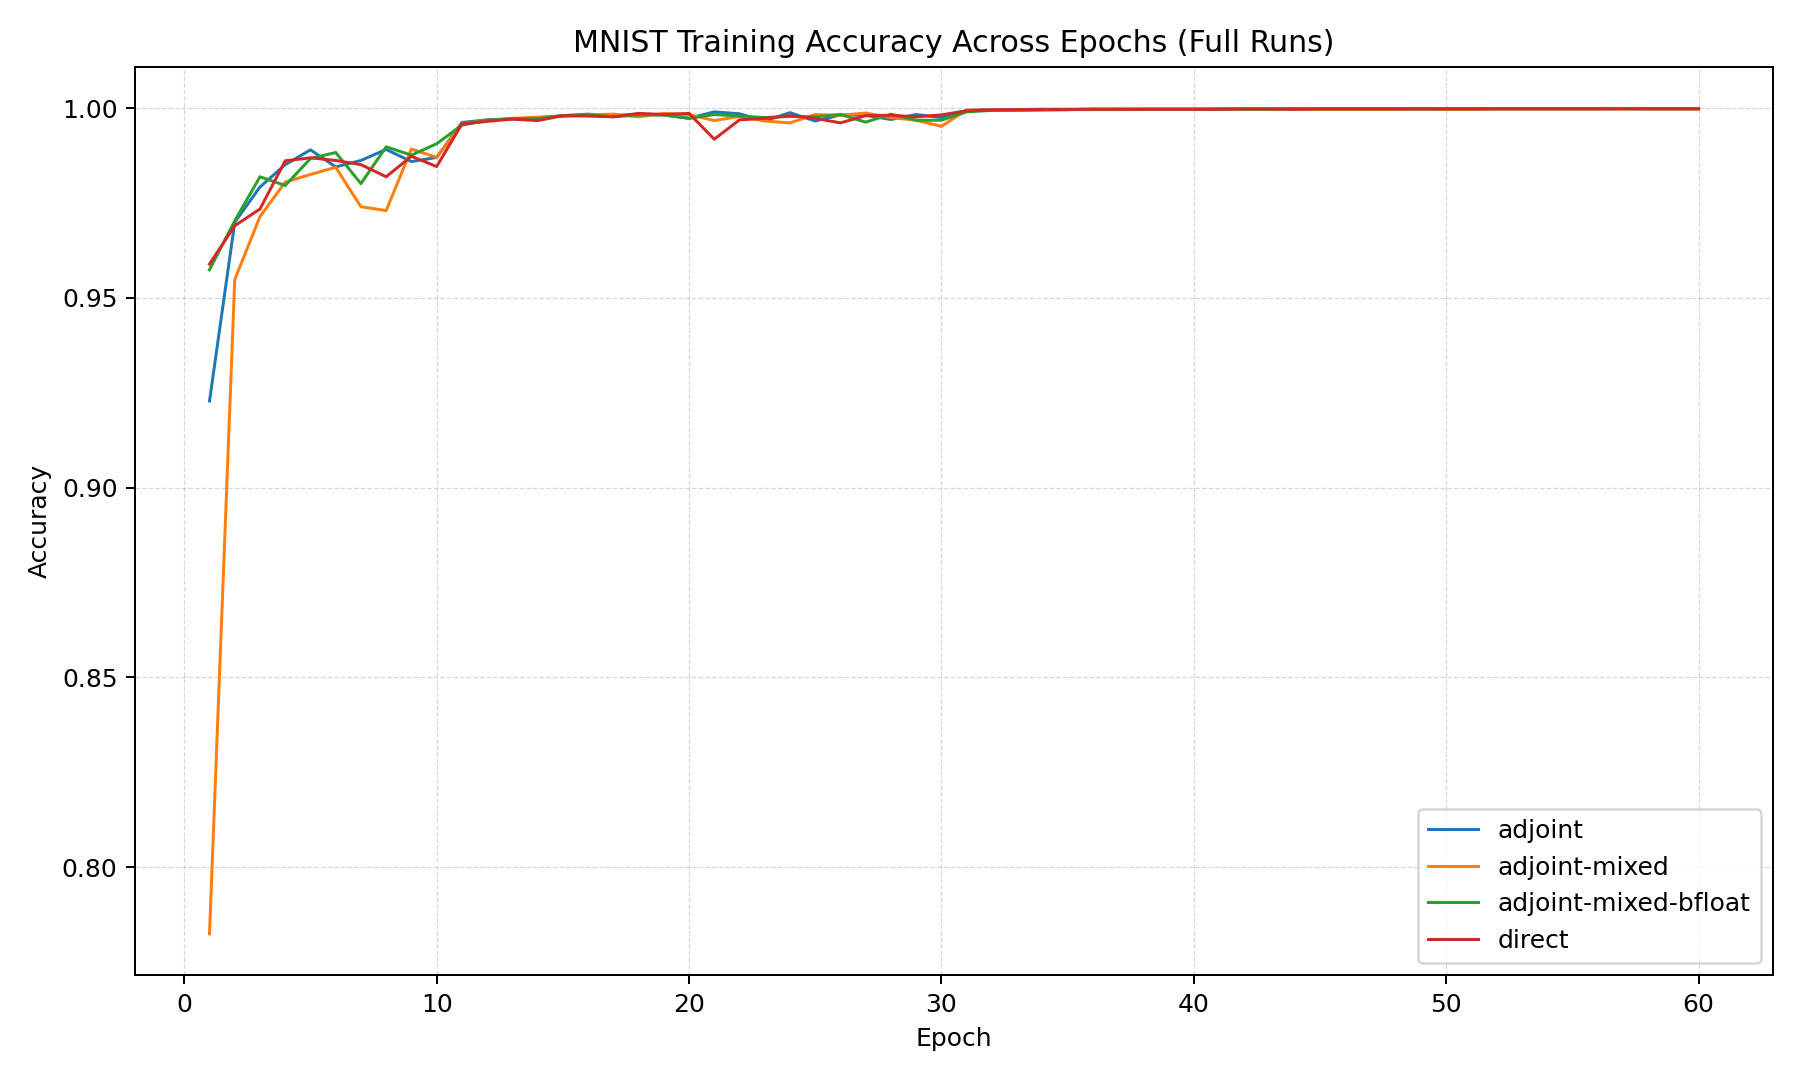
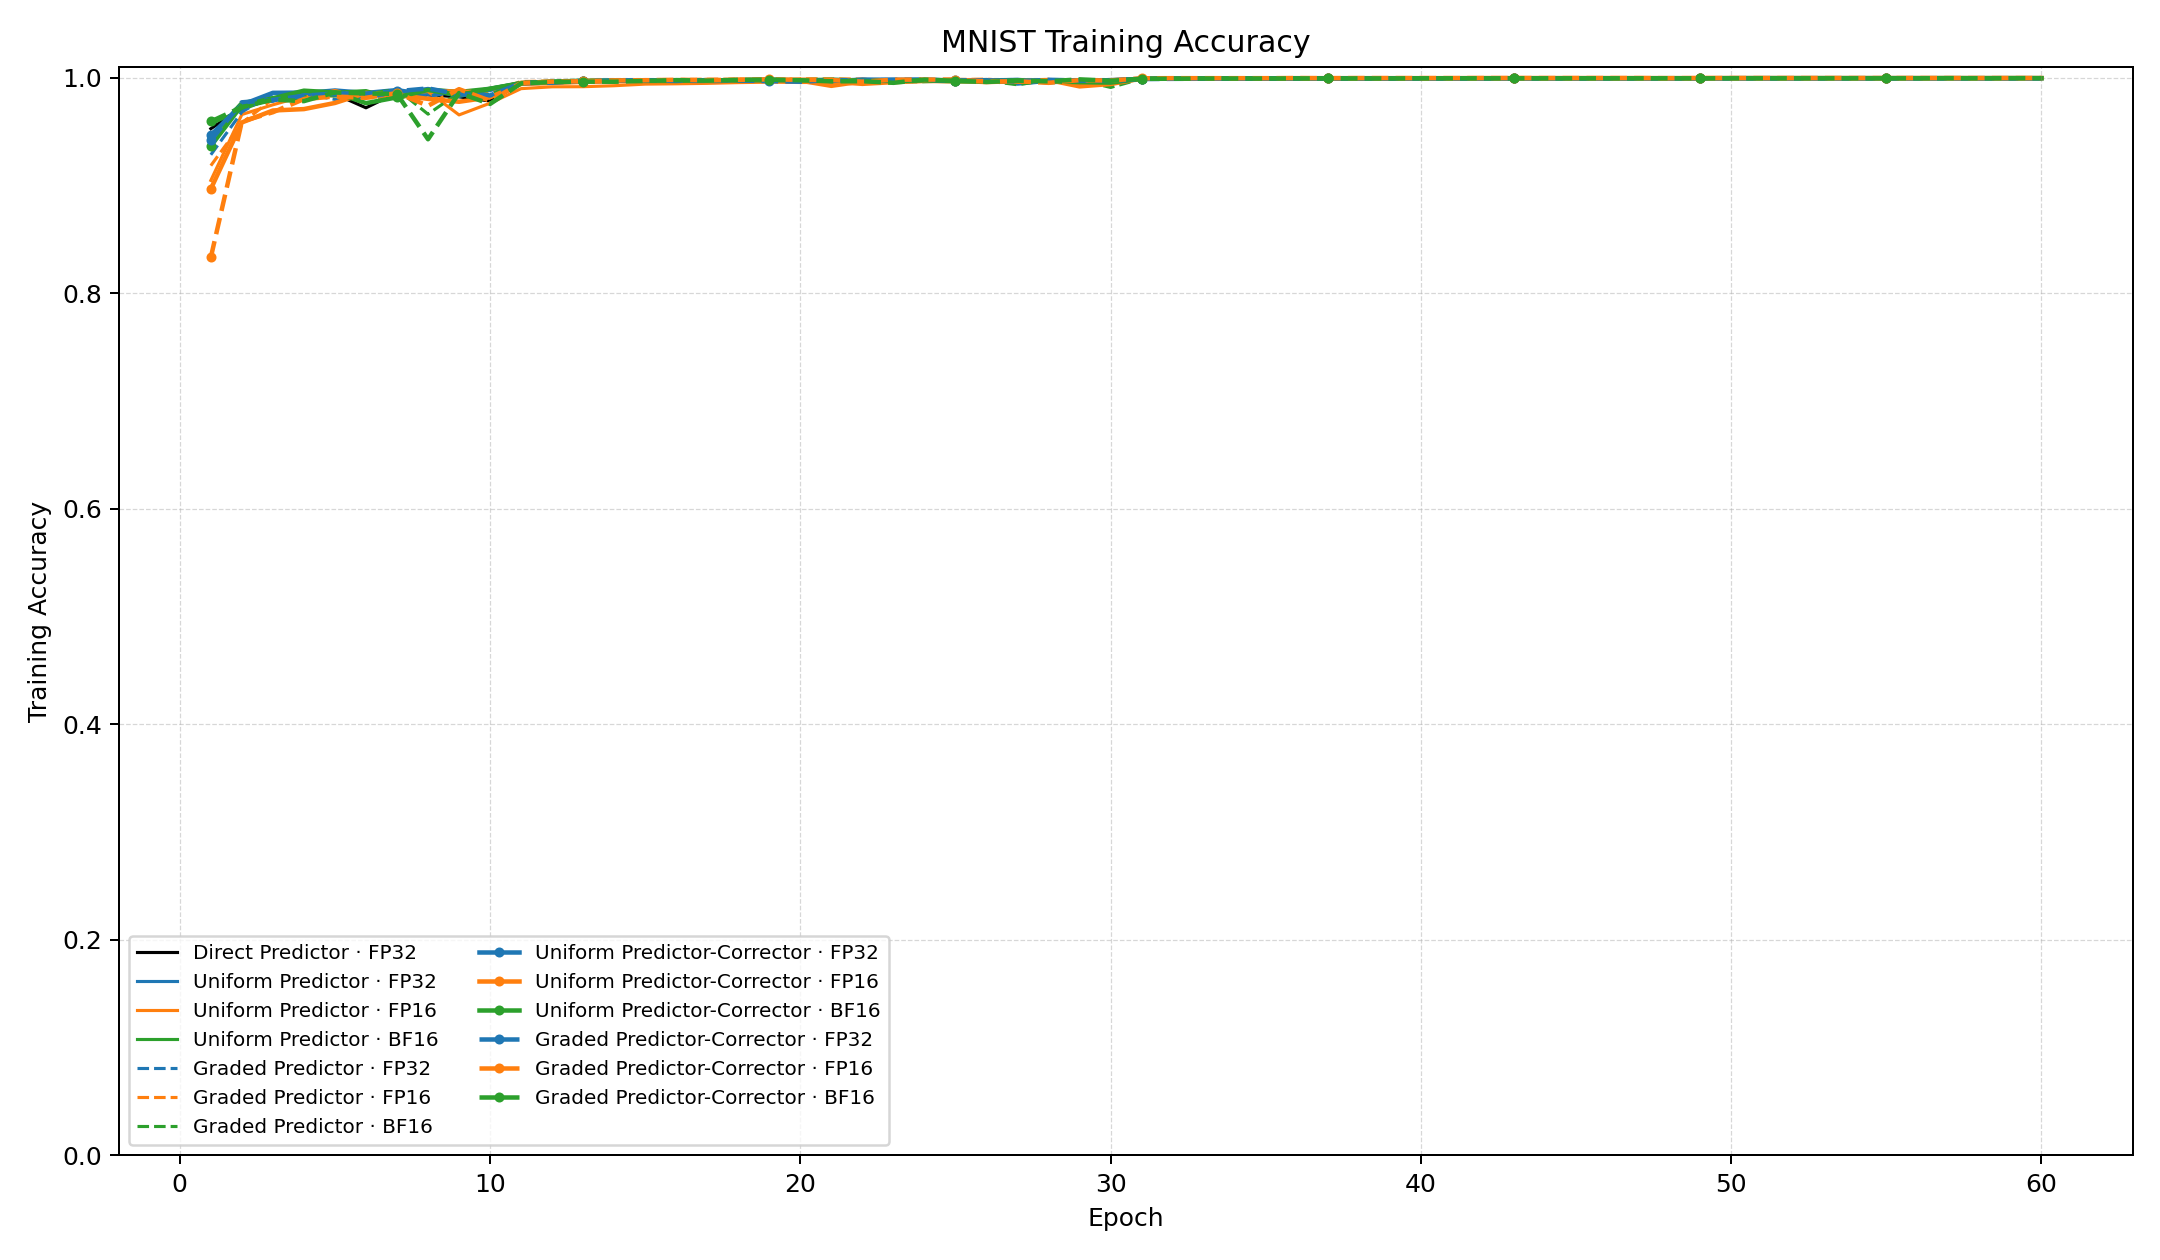
Added summary markdowns for MNIST.

diff --git a/examples/MNIST/Evaluate Full Training Logs/mnist_final_metrics.md b/examples/MNIST/Evaluate Full Training Logs/mnist_final_metrics.md
@@ -3,25 +3,34 @@
 ## Full Training Metrics
 
 ```text
-configuration            | backward mode        | mesh    | precision | final_acc | best_acc | train_mem_mb | train_time_s | inf_time_s | inf_mem_mb
--------------------------+----------------------+---------+-----------+-----------+----------+--------------+--------------+------------+-----------
-Direct Predictor · FP32  | direct AG            | uniform | float32   | 0.9937    | 0.9946   | 1955.68      | 27384.28     | 20.83      | 299.19
-Uniform Predictor · FP32 | adjoint              | uniform | float32   | 0.9942    | 0.9952   | 804.87       | 10576.97     | 5.33       | 750.06
-Uniform Predictor · FP16 | adjoint-mixed        | uniform | float16   | 0.9937    | 0.9943   | 373.70       | 19381.30     | 12.87      | 300.65
-Uniform Predictor · BF16 | adjoint-mixed-bfloat | uniform | bfloat16  | 0.9940    | 0.9943   | 373.70       | 20987.90     | 13.53      | 300.65
+configuration                      | backward mode        | mesh    | precision | status | final_acc | best_acc | train_mem_mb | train_time_s | inf_time_s | inf_mem_mb
+-----------------------------------+----------------------+---------+-----------+--------+-----------+----------+--------------+--------------+------------+-----------
+Direct Predictor · FP32            | direct AG            | uniform | float32   | ok     | 0.9936    | 0.9940   | 1955.68      | 36218.77     | 25.17      | 299.19    
+Uniform Predictor · FP32           | adjoint              | uniform | float32   | ok     | 0.9935    | 0.9946   | 593.98       | 13010.70     | 9.74       | 527.56    
+Uniform Predictor · FP16           | adjoint-mixed        | uniform | float16   | ok     | 0.9905    | 0.9913   | 375.97       | 33806.14     | 15.48      | 300.65    
+Uniform Predictor · BF16           | adjoint-mixed-bfloat | uniform | bfloat16  | ok     | 0.9940    | 0.9943   | 373.70       | 27291.46     | 19.62      | 300.65    
+Graded Predictor · FP32            | adjoint              | graded  | float32   | ok     | 0.9937    | 0.9942   | 593.98       | 12558.70     | 9.39       | 527.56    
+Graded Predictor · FP16            | adjoint-mixed        | graded  | float16   | ok     | 0.9935    | 0.9945   | 375.97       | 22524.55     | 12.23      | 300.65    
+Graded Predictor · BF16            | adjoint-mixed-bfloat | graded  | bfloat16  | ok     | 0.9930    | 0.9945   | 373.70       | 21613.68     | 15.56      | 300.65    
+Uniform Predictor-Corrector · FP32 | adjoint              | uniform | float32   | ok     | 0.9932    | 0.9943   | 821.52       | 44945.87     | 24.11      | 755.94    
+Uniform Predictor-Corrector · FP16 | adjoint-mixed        | uniform | float16   | ok     | 0.9929    | 0.9933   | 489.60       | 126654.82    | 34.26      | 415.96    
+Uniform Predictor-Corrector · BF16 | adjoint-mixed-bfloat | uniform | bfloat16  | ok     | 0.9931    | 0.9948   | 488.18       | 86537.65     | 48.71      | 415.96    
+Graded Predictor-Corrector · FP32  | adjoint              | graded  | float32   | ok     | 0.9949    | 0.9953   | 821.52       | 79887.57     | 40.04      | 755.94    
+Graded Predictor-Corrector · FP16  | adjoint-mixed        | graded  | float16   | ok     | 0.9929    | 0.9937   | 489.60       | 123654.21    | 41.44      | 415.96    
+Graded Predictor-Corrector · BF16  | adjoint-mixed-bfloat | graded  | bfloat16  | ok     | 0.9931    | 0.9948   | 488.18       | 83971.62     | 46.95      | 415.96    
 ```
 
 Predictor:
-- Adjoint MP memory savings compared to direct AG: $80.9\%$
-- Adjoint MP memory savings compared to full precision adjoint: $53.6\%$
+- Adjoint MP memory savings compared to direct AG: $80.9\\%$
+- Adjoint MP memory savings compared to full precision adjoint: $37.1\\%$
 
 Predictor-Corrector:
-- Adjoint MP memory savings compared to full precision adjoint: $N/A$
+- Adjoint MP memory savings compared to full precision adjoint: $40.6\\%$
 
 Experiment Parameters:
 - Network Architecture:
     - Same as the torchfde Neural FDE paper
-    - Model parameter count: 208,266
+    - Model parameter count: 208266
 - FDE_Block:
     - Beta: 0.5
     - T: 20.0
@@ -35,10 +44,9 @@ Experiment Parameters:
     - Weight decay: 5e-4
     - GPU: NVIDIA H200 (Palmetto)
 
-Parameter count: 208,266
+Parameter count: 208266
 
 Note:
-- These historical metrics contain only the uniform predictor configurations; the updated launcher generates the complete 13-run table.
 - adjoint mode uses the custom adjoint in float32 throughout
 - adjoint-mixed mode uses float16 adjoint storage and the DynamicScaler
 - adjoint-mixed-bfloat uses bfloat16 adjoint storage without dynamic scaling
